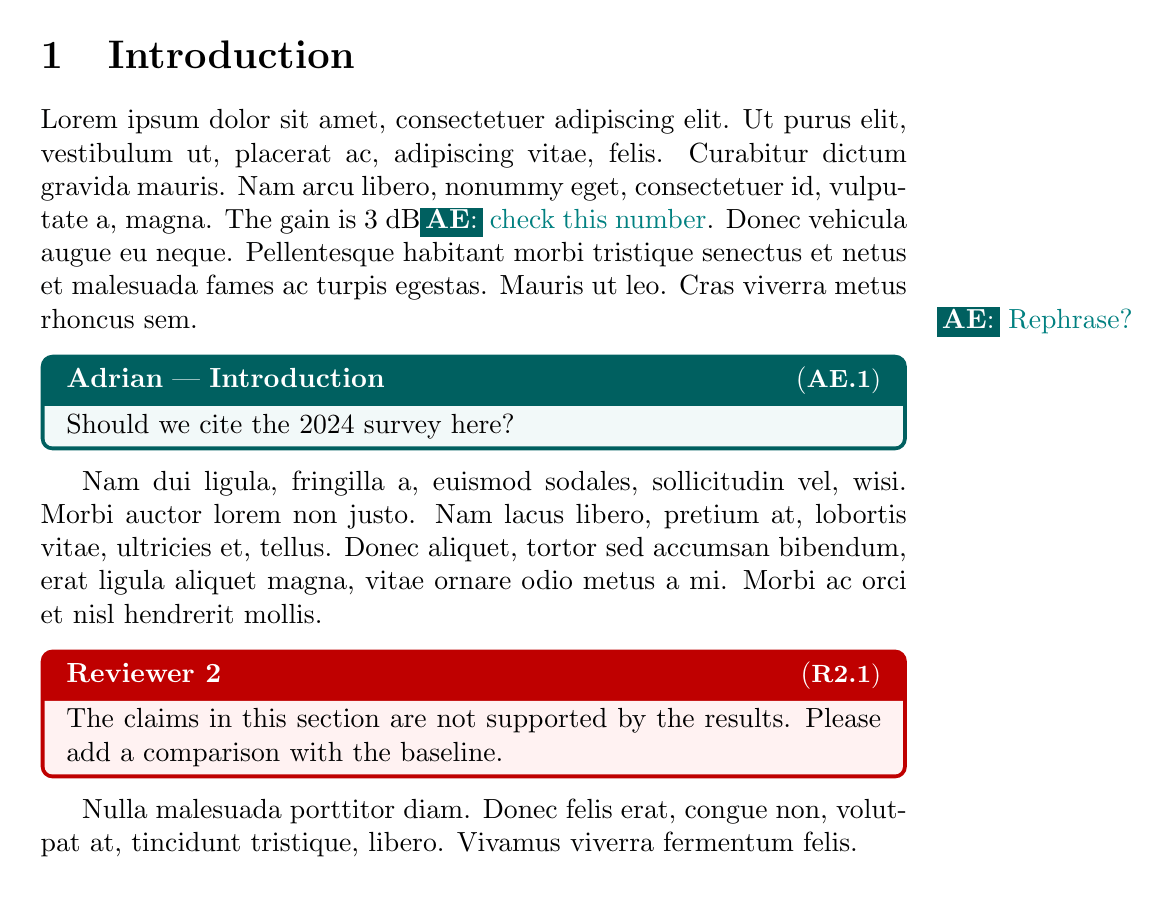
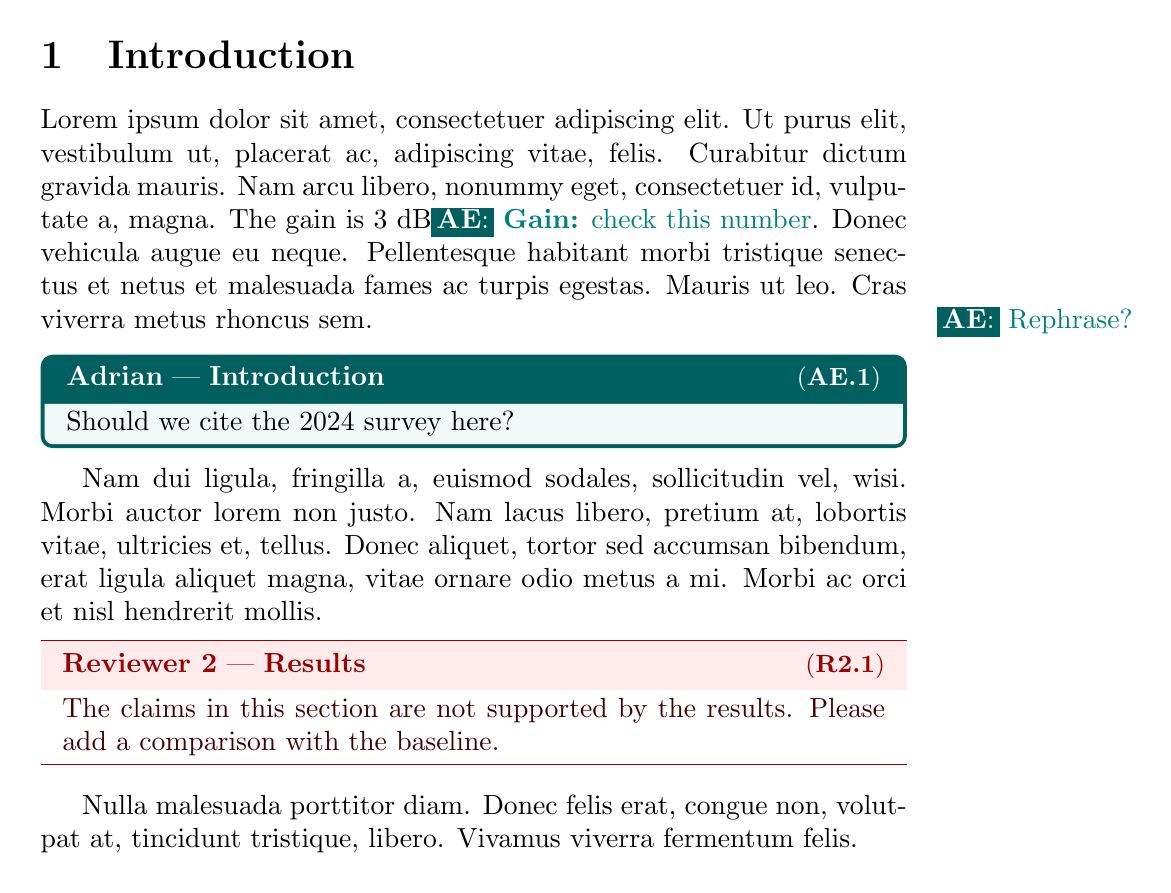
Updated commentsys with section comments and default styles.
The package now gives each commenter block, section, inline and margin
commands, a default style set with \registercommenter or
\setdefaultcomment, subtitles on inline and margin comments, and the
bcomment/scomment environments. It now requires LaTeX 2021-06-01.

Updated the page to document the new interface and regenerated the
screenshots, which now show a section comment and an inline subtitle.

diff --git a/assets/commentsys-images/example.tex b/assets/commentsys-images/example.tex
@@ -1,5 +1,6 @@
 % Example document for the screenshots on /latex/commentsys/.
-% Compile with: pdflatex example.tex   (commentsys.sty must be on the TeX path)
+% Compile twice with: pdflatex example.tex   (commentsys.sty must be on the TeX path;
+% the margin note needs the second run to get its position)
 \documentclass{article}
 \usepackage[a4paper, textwidth=11cm, marginparwidth=3.5cm]{geometry}
 \usepackage{lipsum}
@@ -15,14 +16,14 @@
 \section{Introduction}
 
 \lipsum[1][1-4]
-The gain is 3~dB\iadr{check this number}.
+The gain is 3~dB\iadr[Gain]{check this number}.
 \lipsum[1][5-8]\madr{Rephrase?}
 
-\adr[Introduction]{Should we cite the 2024 survey here?}
+\badr[Introduction]{Should we cite the 2024 survey here?}
 
 \lipsum[2][1-5]
 
-\rev{The claims in this section are not supported by the results. Please add a comparison with the baseline.}
+\srev[Results]{The claims in this section are not supported by the results. Please add a comparison with the baseline.}
 
 \lipsum[3][1-3]
 
